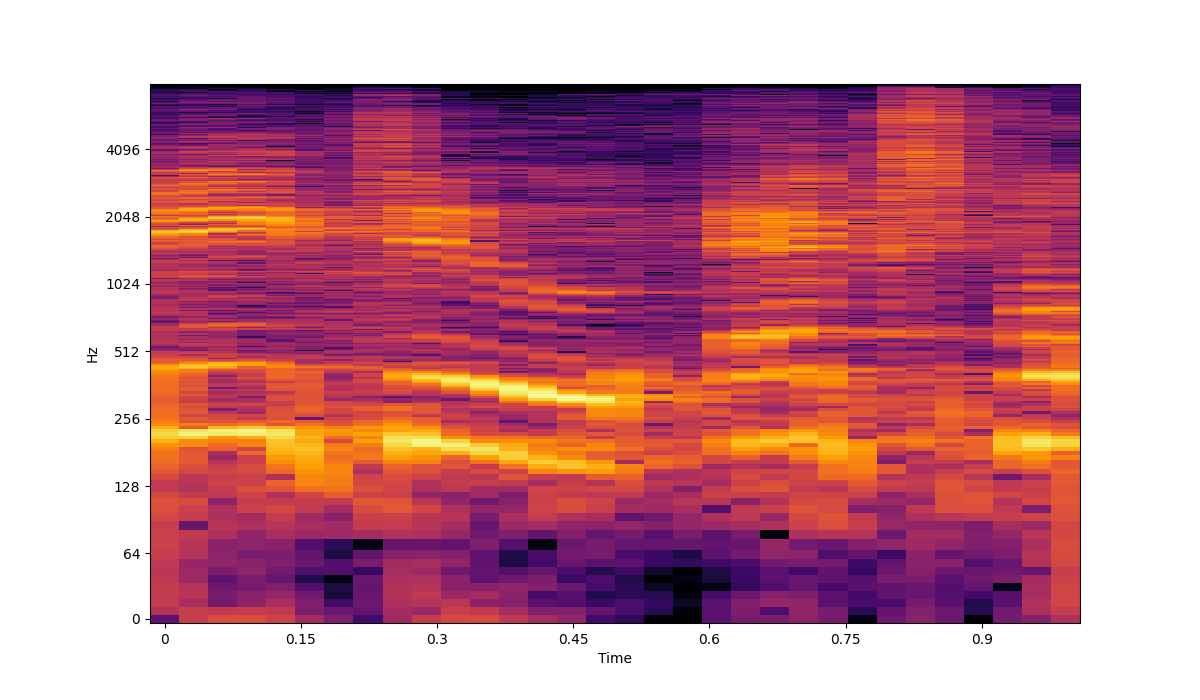
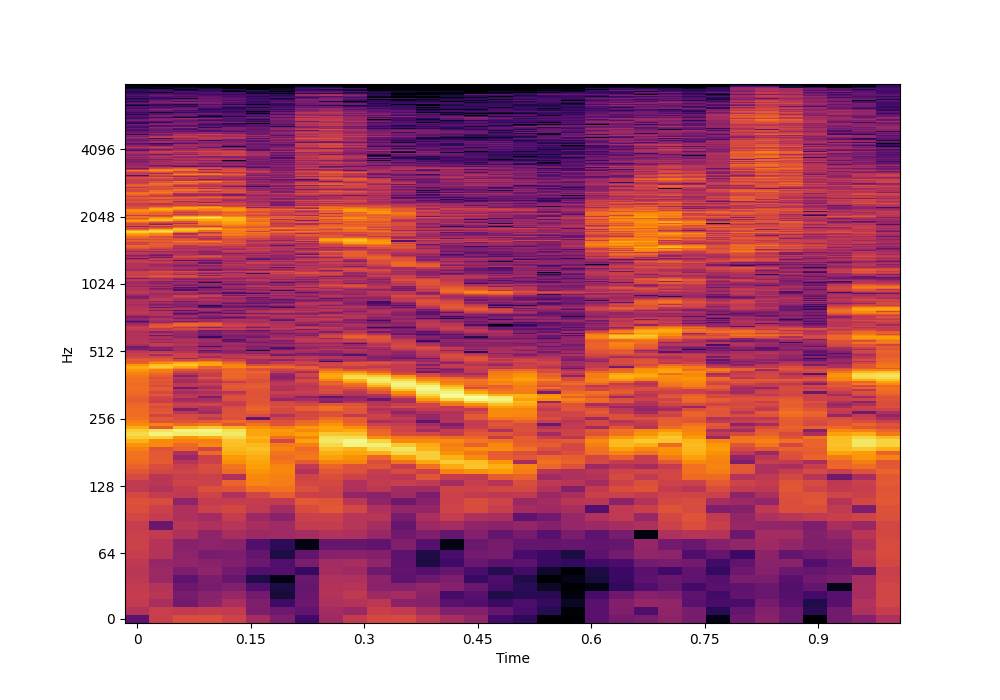
Funzione spec

diff --git a/lbr.py b/lbr.py
@@ -4,15 +4,21 @@ import librosa as lbr
 import soundfile as sf
 
 wav_dir = "Benjamin_Netanyau/189.wav"
+sample_rate = 16000
 
-sig, sample_rate = sf.read(wav_dir)
+def wav_to_spec(path):
+    sig, _= sf.read(path)
+    
+    print("Sample rate", sample_rate)
 
-print("Sample rate", sample_rate)
+    stf=lbr.stft(sig)
+    spec = np.abs(stf)
+    spec_db = lbr.amplitude_to_db(spec)
+    return spec_db
+    
 
-stf=lbr.stft(sig)
-spec = np.abs(stf)
-spec_db = lbr.amplitude_to_db(spec)
-
-plt.figure(figsize=(12,7))
-img = lbr.display.specshow(spec_db, y_axis="log", x_axis="time", sr=sample_rate, cmap="inferno")
-plt.savefig("img.png")
+dire = "Nelson_Mandela/191.wav"
+nm = wav_to_spec(dire)
+plt.figure(figsize=(10,7))
+img = lbr.display.specshow(nm, y_axis="log", x_axis="time", sr=sample_rate, cmap="inferno")
+plt.savefig("imgnm.png")

diff --git a/read.py b/read.py
@@ -34,8 +34,8 @@ signal_wave = obj.readframes(-1)
 
 obj.close()
 
-signal_array = np.frombuffer(signal_wave, dtype=np.int16)
-time = np.linspace(0, tempo, num=nsample)
+signal_array = np.frombuffer(signal_wave, dtype=np.int16) #cercare cosa fa
+time = np.linspace(0, tempo, num=nsample) #cercare cosa fa
 
 plt.figure(figsize=(15,5))
 plt.plot(time, signal_array)
@@ -45,10 +45,11 @@ plt.xlabel("Time")
 plt.xlim(0, tempo)
 plt.show()
 
-def path_to_audio(path):
-    """Reads and decodes an audio file."""
+def path_to_audio(path): 
+    #Decode a 16-bit PCM WAV file to a float tensor
     audio = tf.io.read_file(path)
     audio, _ = tf.audio.decode_wav(audio, 1, freq)
+    #input 16bit pcm wav file, output tensore con valori float [-1,1]
     return audio
 
 a = path_to_audio(wav_dir)
